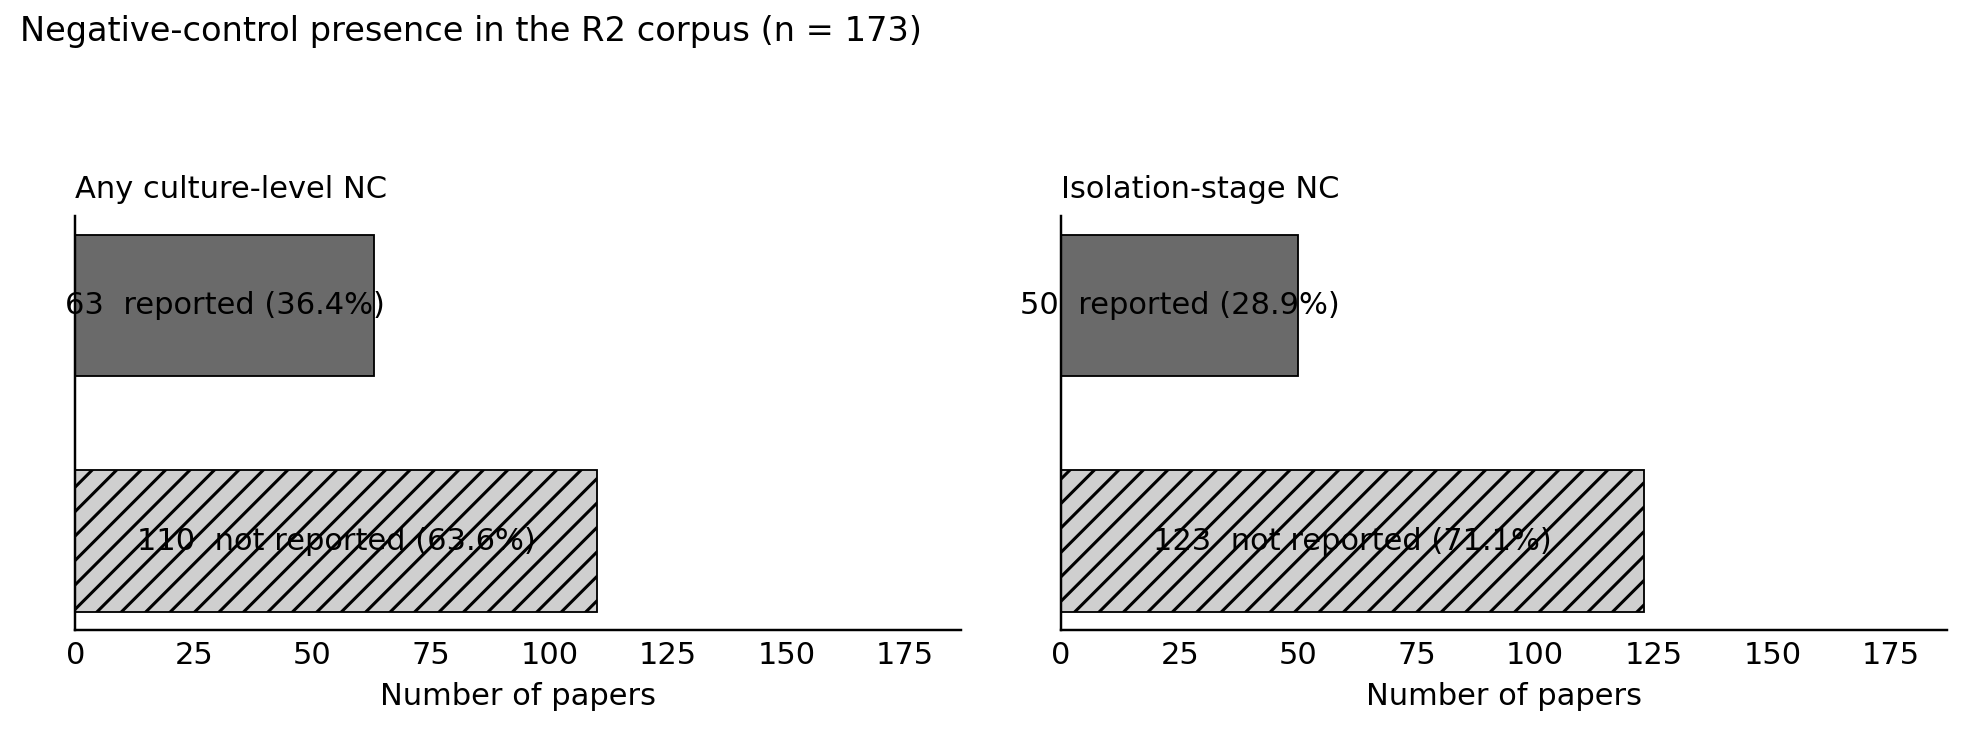
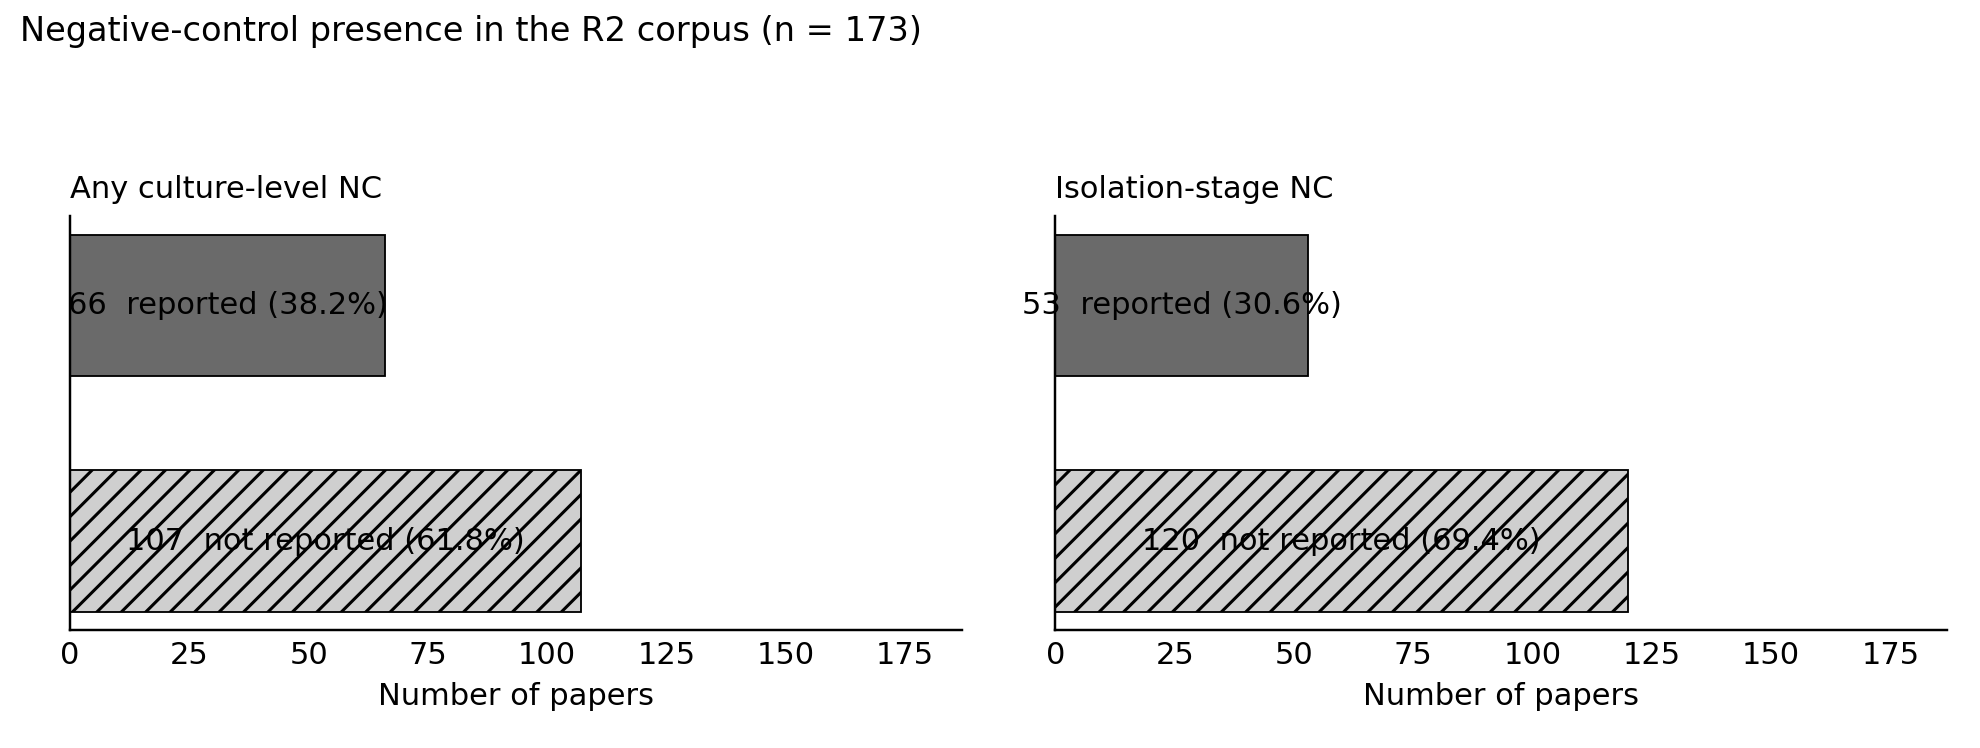
process recent fetch. advance and update knowledge and records

diff --git a/r2_negative_controls/r2.md b/r2_negative_controls/r2.md
@@ -4,6 +4,14 @@
 **Uses PDFs from:** `r1_isolation_standards_and_practice/refs/` (do not re-copy).  
 **Goal:** Characterize the **incidence and quality** of negative controls in Isolation-practice reference publications (tiers A–D).
 
+**Why the R1 corpus is the right frame for control evidence.** We trust the R1 corpus for reasonable
+evidence of negative-control reporting because that corpus was selected *precisely because* those papers
+were more thorough in reporting the methodological details of their cultures (numeric pre- and
+post-inoculation serum stated). We therefore reasonably expect them to be at or near the **best** at
+reporting negative controls. Read accordingly: the tier counts here are best treated as an *upper bound* on
+control-reporting quality in the wider Isolation literature — a representative frame that is, if anything,
+favorable to reporting, not a random sample.
+
 **Entrypoints**
 
 | File | Use |
@@ -32,41 +40,55 @@
 
 ### R2-S3 — Headline tier finding
 
-> Of the 173 Isolation papers scored, 110 (63.6%) described no culture-level negative control for the Isolation culture work (Tier D); 14 (8.1%) used a control only at a different stage or with an explicit mismatch (Tier C); 38 (22.0%) named an Isolation-stage control whose conditions could not be verified (Tier B); and 11 (6.4%) documented an audit-able matched control (Tier A). None of the 11 Tier A controls was reported to show CPE. *(Source: `control-cultures-overview.csv`.)*
+> Of the 173 Isolation papers scored, 107 (61.8%) described no culture-level negative control for the Isolation culture work (Tier D); 14 (8.1%) used a control only at a different stage or with an explicit mismatch (Tier C); 40 (23.1%) named an Isolation-stage control whose conditions could not be verified (Tier B); and 12 (6.9%) documented an audit-able matched control (Tier A). None of the 12 Tier A controls was reported to show CPE. *(Source: `control-cultures-overview.csv`.)*
 
 ### R2-S4 — Serum-match crux
 
-> Of the 173 papers, 11 (6.4%) verified that the negative culture shared the same serum/enrichment trajectory as the test culture (M3 = yes); 38 (22.0%) named an Isolation-stage control without a verifiable serum match (M3 = unknown); 1 (0.6%) explicitly mismatched the serum regime (M3 = no); and 123 (71.1%) described no culture-level control at all (M3 = NA). A matched-maintenance mock is therefore the exception, not the rule, across the scored corpus.
+> Of the 173 papers, 13 (7.5%) verified that the negative culture shared the same serum/enrichment trajectory as the test culture (M3 = yes); 39 (22.5%) named an Isolation-stage control without a verifiable serum match (M3 = unknown); 1 (0.6%) explicitly mismatched the serum regime (M3 = no); and 120 (69.4%) described no culture-level control at all (M3 = NA). A matched-maintenance mock is therefore the exception, not the rule, across the scored corpus.
 
 ---
 
-## Status update — 2026-11-06
+## Status update — 2026-11-18
 
-**Re-synced to the current R1 canonical `isolation-refs.csv` (189 catalogued rows) on 2026-11-06.**
+**Re-synced to the current R1 canonical `isolation-refs.csv` (189 catalogued rows) on 2026-11-06; wishlist full texts fetched and re-scored 2026-11-18.**
 
 | Metric | Value |
 |--------|-------|
 | R1 dual-FBS source | `r1_isolation_standards_and_practice/isolation-refs.csv` — `fbs_coded=yes` rows (**n=166**; was 170 at the 2026-09-22 sync) |
 | R2 overview rows | **173** (`control-cultures-overview.csv`; duplicate row VI47 removed 2026-10-14, same article as VI29) |
 | `fbs_coded=yes` IDs missing from overview | **0** |
-| Isolation-stage NC (`nc_isolation_stage=yes`) | **50 / 173 (28.9%)** |
-| Tier A / B / C / D | **11 / 38 / 14 / 110** (Tier D = 63.6%) |
-| Tier A that reported CPE in the NC | **0 / 11** |
+| Isolation-stage NC (`nc_isolation_stage=yes`) | **53 / 173 (30.6%)** |
+| Tier A / B / C / D | **12 / 40 / 14 / 107** (Tier D = 61.8%) |
+| Tier A that reported CPE in the NC | **0 / 12** |
+
+**2026-11-18 wishlist re-score (Pass4).** Six of seven wishlist full texts landed on disk (VI44, VI249, VI251, VI266, VI267 in `r1_…/refs/isolation_practice/`; VI270 thesis in `refs/methods_review_teaching/`); VI271 is a CDC HTML lab-tools page (not a PDF) and stays D pending archive. Re-scored tiers:
+
+| ID | Old | New | Basis |
+|----|-----|-----|-------|
+| VI249 | D | **A** | Same-plate uninoculated SFM-MDCK negative-control well; serum-free (0% FBS) matched |
+| VI266 | D | **B** | "Intact HeLa/HEp-2/Vero cells as controls in each plate" named; control serum/enrichment not stated |
+| VI267 | D | **B** | Fig.1 mock-infected control; serum-free+trypsin matched, but mock preparation undefined (M6 unknown) |
+| VI44 | D | D | Confirmed: microplate Isolation, no culture NC (ambiguous cleared) |
+| VI251 | D | D | Confirmed: "no CPE → IFA" is specimen outcome, not NC (ambiguous cleared) |
+| VI270 | D | D | Confirmed: DEA thesis (Le Deuff 1990), NC only in assay context (ambiguous cleared) |
+| VI271 | D | D | CDC web page; not a PDF; stays D |
+
+**Why 173 overview rows vs the current 166-paper `fbs_coded=yes` corpus (checked 2026-11-06):** all 166 `fbs_coded=yes` rows are scored once. The overview holds **7 rows outside** that flag:
 
 **Why 173 overview rows vs the current 166-paper `fbs_coded=yes` corpus (checked 2026-11-06):** all 166 `fbs_coded=yes` rows are scored once. The overview holds **7 rows outside** that flag:
 
 - **VI4** — absent from the current `isolation-refs.csv` (1983 HFRS on Vero E6) → Tier D.
 - **VI30, VI33, VI34, VI227, VI232, VI233** — present in `isolation-refs.csv` but `fbs_coded=no` → tiers **D, A, D, B, C, D** respectively.
 
-**What changed since the 2026-09-22 sync.** R1 re-coded four papers from `fbs_coded=yes` → `no` (their pre- or post-inoculation serum entry was re-expressed as a non-numeric descriptor): **VI33** (MERS-CoV; post "fresh DMEM added post-wash…", Tier A), **VI34** (CAV-2; post "maintenance implied…", Tier D), **VI227** (IBDV; pre "(ref. Cardoso 2000)", Tier B), **VI232** (WNV; pre "(BHK companion 10% DMEM)", Tier C). This shifted the dual count 170 → 166 and grew the extras from 3 → 7. **The scored tier distribution is unchanged** (tiers are assigned per paper from the PDF, independent of the FBS flag).
+**What changed since the 2026-09-22 sync.** R1 re-coded four papers from `fbs_coded=yes` → `no` (their pre- or post-inoculation serum entry was re-expressed as a non-numeric descriptor): **VI33** (MERS-CoV; post "fresh DMEM added post-wash…", Tier A), **VI34** (CAV-2; post "maintenance implied…", Tier D), **VI227** (IBDV; pre "(ref. Cardoso 2000)", Tier B), **VI232** (WNV; pre "(BHK companion 10% DMEM)", Tier C). This shifted the dual count 170 → 166 and grew the extras from 3 → 7. *(Tiers are assigned per paper from the PDF, independent of the FBS flag; the 2026-11-18 wishlist re-score changed the tier distribution itself — see Pass4 above.)*
 
-**Dual-FBS-scoped tier distribution** (if the paper reports only the stricter `fbs_coded=yes` frame): on the 166 dual rows alone, Tier A/B/C/D = **10 / 37 / 13 / 106**; Isolation-stage NC **48 / 166 (28.9%)**. Reporting the full 173-row overview (11/38/14/110) is equally defensible — pick one and state the frame in Methods so the denominator is explicit.
+**Dual-FBS-scoped tier distribution** (if the paper reports only the stricter `fbs_coded=yes` frame). NOTE: the overview-to-`isolation-refs.csv` ID join currently yields **147** `fbs_coded=yes` rows (A/B/C/D = 11/38/13/85), not the 166 stated in R1's canonical — a pre-existing R1/R2 corpus-sync gap (several overview IDs are `fbs_coded=post_only`, `no`, or absent from the current `isolation-refs.csv`: e.g. VI4, VI24, VI237, VI240–263, VI269–271, SPT10). This gap is R1's to reconcile; R2's headline numbers use the full 173-row overview (12/40/14/107) with the denominator stated. All three 2026-11-18 upgrades (VI249→A, VI266→B, VI267→B) sit inside the `fbs_coded=yes` set.
 
-**Figures (print-safe grayscale + hatch).** Regenerated from tracked code `wrk/viz/make_figures.py` → `wrk/viz/r2_fig1_tier_distribution_bar.png`, `r2_fig2_tier_distribution_donut.png`, `r2_fig3_nc_presence.png`, `r2_fig4_serum_match_ladder.png` (numbers also in `r2_summary.txt`).
+**Figures (print-safe grayscale + hatch).** Tracked code `wrk/viz/make_figures.py` → `wrk/viz/r2_fig1_tier_distribution_bar.png`, `r2_fig2_tier_distribution_donut.png`, `r2_fig3_nc_presence.png`, `r2_fig4_serum_match_ladder.png` (numbers also in `r2_summary.txt`). Regenerated 2026-11-18 after the Pass4 re-score (12/40/14/107).
 
-**Pass history (2026-09-19):** pass1 → pass2 → **pass3** (+47 IDs VI247–VI293). Details: `r2_rescore_status_2026-09-19_pass3.md`.
+**Pass history:** pass1 → pass2 → **pass3** (2026-09-19, +47 IDs VI247–VI293, details `r2_rescore_status_2026-09-19_pass3.md`) → **pass4** (2026-11-18, wishlist full-text re-score: VI249→A, VI266→B, VI267→B; details in `control-cultures-justification-notes.md` §Pass4).
 
-**Open work (not a dual∖overview gap):** upgrade selected Tier D rows when full text becomes available — see `R2_pdf_wishlist.md`. Optional: score non-dual-FBS expanded OA Isolation papers if R1 freezes a broader frame.
+**Open work (not a dual∖overview gap):** VI271 remains D pending an archived copy of the CDC lab-tools page (a web page, not a PDF). Optional: score non-dual-FBS expanded OA Isolation papers if R1 freezes a broader frame. **Flag for R1:** overview↔`isolation-refs.csv` ID join reconcilable only to 147 `fbs_coded=yes` rows, not 166.
 
 **Do not:** invent mocks; re-copy R1 PDFs; treat missing NC as more than a methods-quality finding about Isolation publications.
 

diff --git a/r2_negative_controls/control-cultures-justification-notes.md b/r2_negative_controls/control-cultures-justification-notes.md
@@ -893,3 +893,75 @@ Explicit: cells inoculated with virus extract **or medium (negative control)**; 
 | VI291 | B | Methods: “In parallel, a flask of uninfected Vero-E6 cells was passaged as a control” during 28-day Isolation passages (infected flasks g… |
 | VI292 | D | OA full text: “remained uninfected” = specimen outcome, not parallel culture NC. → D. |
 | VI293 | C | Mock-infected / medium-only negative controls are for plaque observation and IF/immunoblot of adapted stocks; mouse mock is animal arm. N… |
+
+---
+
+# Pass4 — wishlist items re-opened from fetched full text (r2-agent, 2026-11-18)
+
+Fetched PDFs now on disk under `r1_isolation_standards_and_practice/refs/` (VI44, VI249, VI251, VI266, VI267) and `methods_review_teaching/` (VI270 thesis). Re-opened the tiers previously held at conservative D (abstract-only / blocked). **Two upgrades and five confirmations.**
+
+**Tier shifts:** VI249 D→A; VI266 D→B; VI267 D→B. VI44, VI251, VI270 stay D (now non-ambiguous). VI271 stays D (CDC web page, not a PDF).
+
+## VI249 — Tier **A** (upgraded from D)
+
+**Primary experiment:** IAV Isolation from exhibition-swine BHI broth supernatant on serum-free-medium (SFM)-adapted MDCK.
+**Endpoint:** CPE + hemagglutination.
+
+### Quotes — Isolation-stage negative-control well
+> "The SFM-adapted MDCK cells were seeded into every other vertical column of a 24-well cell culture plate. One of the 4 wells in each empty column of wells was also seeded with SFM-adapted MDCK cells to serve as a negative control. This allowed for 3 samples to be tested in quadruplicate on one 24-well plate, with each sample having a negative control."
+
+### Quotes — medium (plate-wide, serum-free)
+> "Immediately prior to inoculation, the SFM from confluent cell monolayers in 24-well tissue culture plates was removed, and the monolayers were washed once with viral growth medium (VGM)… Viral growth medium was prepared by supplementing SFM with antimicrobials (1,200 U/ml penicillin, 1.2 mg/ml streptomycin, 3 µg/ml amphotericin B) and tolylsulfonyl phenylalanyl chloromethyl ketone–treated trypsin (0.5 μg/ml)."
+
+> "For each sample, 150 μl of BHI broth supernatant was inoculated into each of 4 wells… Inoculum was allowed to adsorb for 60 min at 37°C before being removed and replaced with 0.5 ml of VGM. Plates were incubated at 37°C… for 72 hr. Wells were observed daily for cytopathic effects (CPE)…"
+
+### Decision
+Same-plate uninoculated SFM-MDCK negative-control well (receives no sample inoculum); plate-wide VGM wash and post-adsorption 0.5 mL VGM; serum **0% FBS** in both arms (SFM + VGM). M1–M6 by allowed inference (§4.1 universal medium + uninoculated well); `match_basis=allowed_inference`. The post-adsorption VGM addition to the NC well is inferred (plate-wide "wells observed daily for CPE") but clean. `ambiguous=yes` (NC-well post-adsorption medium inferred, not sentence-explicit). No CPE in NC reported.
+
+## VI266 — Tier **B** (upgraded from D)
+
+**Primary experiment:** HRSV Isolation from PCR-positive clinical samples on HeLa/HEp-2/Vero.
+**Endpoint:** CPE (syncytium) + RT-PCR confirmation.
+
+### Quotes — Isolation-stage control
+> "…were inoculated with 30 μL aliquots of the clinical samples. Intact HeLa, HEp-2, and Vero cells were used as controls in each plate."
+
+> "The evaluation of CPE was estimated under an inverted AxioVert 40 microscope… Intact HeLa, HEp-2, and Vero cells were used as controls."
+
+### Quotes — medium
+> "…a maintenance medium consisting of DMEM… with 2% of FBS… and 100 μg/mL of gentamicin sulfate… was added into the wells." (inoculated-arm; monolayer method)
+
+> growth medium "DMEM, with 10% FBS…"; suspension method post-24 h "growth medium was removed and a supportive medium (DMEM… with 2% FBS…) was added."
+
+### Decision
+Isolation-stage NC named (intact cells as controls in each plate) → `nc_isolation_stage=yes`. But the **control** wells' maintenance medium is never stated: the 2% FBS maintenance formula is framed for inoculated wells, and the intact controls' serum/enrichment is silent. §4.3 ⇒ M2/M3/M4 unknown → **B** (not A). `ambiguous=yes`.
+
+## VI267 — Tier **B** (upgraded from D)
+
+**Primary experiment:** HPIV-1/3 Isolation on MNT-1 (vs LLC-MK2/Vero) with CPE readout.
+**Endpoint:** CPE.
+
+### Quotes — mock (figure legend only)
+> "MNT-1, LLC-MK2, and Vero cells were inoculated with clinical specimens of HPIV1… HPIV2… HPIV3… and HPIV4…, **or mock-infected control** and incubated at 34°C and 5% CO2 without passage or medium change."
+
+### Quotes — medium (universal, serum-free)
+> "The MNT-1 cells were cultured in Dulbecco's modified eagle medium (DMEM…)… All cell lines were supplemented with 10% fetal bovine serum (FBS). … Before specimen inoculation, medium was changed to DMEM or MEM without FBS and either supplemented with crystalized trypsin (Sigma…) at 2 μg/mL (Vero), 5 μg/mL (MNT-1), or 10 μg/mL (LLC-MK2)."
+
+### Decision
+Isolation-stage mock (CPE comparison, same plate) → `nc_isolation_stage=yes`. M1–M5 match (same cell lines, same serum-free + trypsin maintenance, "without passage or medium change"). **M6 unknown**: mock preparation / inoculum ("mock-infected" with what) is never defined — mock appears only in the Figure 1 legend, not methods. ⇒ **B**, not A. `ambiguous=yes`; `control_cpe_claimed_negative=yes` (Fig.1A mock panel no CPE). Consistent with VI8/VI13/VI14/VI40 (mock-in-figure → B).
+
+## VI44 — Tier **D** (confirmed; ambiguous resolved)
+
+Full text (Int J Infect Dis 7:138–142). Microplate Isolation (HHVMRG: HEF/HEp-2/Vero/RD-18s/GMK); growth 10% FBS (RD-18s) / 5% FBS + 5% CS (GMK); maintenance MEM + 2% FBS; 723 swabs inoculated; CPE observed to day 10. **No mock/uninfected culture NC described.** Confirmed D; `ambiguous` cleared.
+
+## VI251 — Tier **D** (confirmed; ambiguous resolved)
+
+Full text (Mem Inst Oswaldo Cruz 101(4):451–453, 2006 — note: corpus "year" field 2004 is the specimen-collection window, not publication year). HEp-2 growth 10% FBS; post-adsorption MEM-E + 2% FBS. "HEp-2 cell monolayers not exhibiting CPE were similarly examined by IFA" = **specimen outcome**, not a parallel negative culture control. Confirmed D; `ambiguous` cleared.
+
+## VI270 — Tier **D** (confirmed; ambiguous resolved)
+
+Full DEA thesis (Le Deuff 1990, Univ. Bordeaux II, Archimer ID 51774) — the IFREMER document, year 1990 (wishlist "1995" was wrong). BF2/LDV diagnostic-methods thesis (monoclonals, PCR, isopycnic DNA). NC language appears only in PCR/hybridisation/antibody/ELISA assay contexts ("Témoin négatif (TE…)" PCR; "cellules saines" as antibody-purification reagent). **No Isolation-stage culture NC** for BF2/LDV morphology. Confirmed D; `ambiguous` cleared.
+
+## VI271 — Tier **D** (no change; web page)
+
+CDC "Vero/hSLAM cell culture for measles isolation" lab-tools page — an HTML guideline page, not a PDF; not in `refs/`. No culture NC language. Stays D; `ambiguous` retained pending an archived copy.

diff --git a/r2_negative_controls/R2_pdf_wishlist.md b/r2_negative_controls/R2_pdf_wishlist.md
@@ -1,13 +1,21 @@
 # R2 PDF wishlist (buy list only)
 
-**Status (checked against `r1_isolation_standards_and_practice/refs/` 2026-10-14):** 7 requested, **0 confirmed on disk**. A mislabelled file `refs/excluded_pdfs/VI44 - Releasing Intracellular NS1 from Mosquito Cells...pdf` (Viruses 2020, doi:10.3390/v12101105, PMC7599882; the "NEW3 VI44" dengue row of the superseded `updated_isolation-refs-overview.csv`, an ID collision) matched no current R1/R2 ID and was deleted 2026-10-14. The enterovirus 2003 VI44 PDF is still wanted. Used/bibliography for R2 = the scored corpus in `control-cultures-overview.csv` (173 rows) with justifications in `control-cultures-justification-notes.md`.
+**Status (2026-11-18):** Albert fetched the outstanding items. **6 of 7 confirmed on disk and read** (removed from wishlist below; re-scored in `control-cultures-overview.csv` + `control-cultures-justification-notes.md` §Pass4):
 
+| ID | Fetched as | Verdict |
+|----|-----------|---------|
+| VI44 | `r1_…/refs/isolation_practice/VI44 - enteroviruses_2003.pdf` | correct (Int J Infect Dis 7:138–142) → re-scored D |
+| VI249 | `…/VI249 - IAV_swine_SFM_2013.pdf` | correct (JVDI 25(1):82–90, DOI 10.1177/1040638712470449) → **A** |
+| VI251 | `…/VI251 - RSV-nasopharyngeal-aspirates.pdf` | correct (Mem Inst Oswaldo Cruz 101(4):451–453, **2006** — wishlist said 2004, which is the specimen window) → D |
+| VI266 | `…/VI266 - HRSV_2023.pdf` | correct (JIDC 17(2):251–259, 10.3855/jidc.17462) → **B** |
+| VI267 | `…/VI267 - HPIV_MNT1_2016.pdf` | correct (Microbiol Immunol, 10.1111/1348-0421.12446) → **B** |
+| VI270 | `…/refs/methods_review_teaching/Lymphocystivirus-Iridoviridae_thesis.pdf` | correct (Le Deuff 1990 DEA, Archimer 51774 — wishlist said 1995; **1990** is right) → D |
 
-**Drop folder:** `r1_isolation_standards_and_practice/refs/` (shared with R1; gitignored)
+> VI270 note: the IFREMER Archimer identifier (`https://archimer.ifremer.fr/doc/00406/51774/`) resolves to **Le Deuff Rose-Marie (1990)**, "Mise au point de méthodologies pour le diagnostic et l'étude de Lymphocystivirus (Iridoviridae)". The year in the old wishlist row (1995) was wrong; the fetched thesis is the correct document.
 
-**Updated:** 2026-09-22
+**Drop folder:** `r1_isolation_standards_and_practice/refs/` (shared with R1; gitignored) for isolation-practice items; VI270 landed in `methods_review_teaching/` (R1's area).
 
-**Rule:** Only verified DOI / PMID / stable URL + exact drop name. These upgrade Tier D / abstract-only scores. Dual∖overview gap is already **0**.
+**Rule:** Only verified DOI / PMID / stable URL + exact drop name. These upgrade Tier D / abstract-only scores.
 
 ---
 
@@ -15,16 +23,10 @@
 
 | ID | Cite key | DOI / PMID / URL | Drop as |
 | -- | -------- | ---------------- | ------- |
-| VI44 | enteroviruses (2003) | PMID 12839716 · https://pubmed.ncbi.nlm.nih.gov/12839716/ | `R2_VI44_enteroviruses_2003.pdf` |
-| VI249 | Influenza A (exhibition swine) (2013) | `10.1177/1040638712470449` | `R2_VI249_Influenza_A_exhibition_swine_2013.pdf` |
-| VI251 | RSV (nasopharyngeal aspirates) (2004) | https://www.scielo.br/j/mioc/a/zJh549P7hQB4R98sdj7PqcR/?lang=en | `R2_VI251_RSV_nasopharyngeal_aspirates_2004.pdf` |
-| VI266 | HRSV (clinical PCR-positive) (2023) | `10.3855/jidc.17462` | `R2_VI266_HRSV_clinical_PCR_positive_2023.pdf` |
-| VI267 | HPIV-1 and HPIV-3 (clinical) (2016) | `10.1111/1348-0421.12446` | `R2_VI267_HPIV_1_and_HPIV_3_clinical_2016.pdf` |
-| VI270 | Lymphocystivirus (Iridoviridae) (1995) | https://archimer.ifremer.fr/doc/00406/51774/52372.pdf | `R2_VI270_Lymphocystivirus_Iridoviridae_1995.pdf` |
-| VI271 | measles (clinical isolation) (n.d.) | https://www.cdc.gov/measles/lab-tools/vero-slam.html | `R2_VI271_measles_clinical_isolation_n_d.pdf` |
+| VI271 | measles (clinical isolation) CDC Vero/hSLAM lab-tools page | `[DATA REQUIRED]` — old URL `https://www.cdc.gov/measles/lab-tools/vero-slam.html` is a live HTML page (not a PDF) and was reported "link not good". Need a **better identifier**: the CDC page's stable URL, an Internet Archive snapshot URL, or the underlying WHO/CDC guidance PDF it cites. | `R2_VI271_measles_clinical_isolation_n_d.pdf` |
 
 ## Notes
 
-- **VI271** is a CDC lab-tools page (often unstable); treat as optional / may stay D.
-- **VI270** IFREMER direct PDF URL — retry download; may not need purchase.
-- After drop: re-open R2 tier for that ID in `control-cultures-overview.csv` + justification notes.
+- **VI271** is a CDC lab-tools page (often unstable) — treat as optional / may stay D. It is the only remaining open wishlist row.
+- After drop: re-open the R2 tier for VI271 in `control-cultures-overview.csv` + justification notes.
+- Fetched/read items are recorded in the scored corpus (`control-cultures-overview.csv`) and `control-cultures-justification-notes.md` — not kept here.
